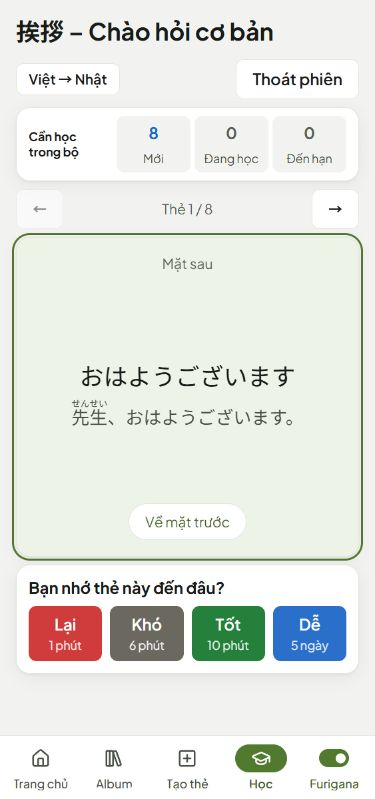
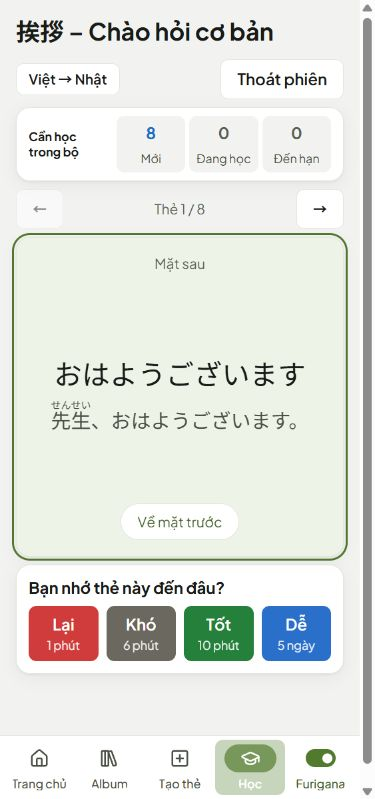
học: tăng nhẹ cỡ chữ mặt sau thẻ

diff --git a/pages/study/study.css b/pages/study/study.css
@@ -184,7 +184,7 @@
 }
 
 .study-card-meaning {
-  font-size: clamp(var(--text-xl), 4vw, var(--text-card));
+  font-size: clamp(var(--text-card), 4vw, 2rem);
 }
 
 .study-card-reading,
@@ -195,11 +195,11 @@
 }
 
 .study-card-reading {
-  font-size: var(--text-lg);
+  font-size: 1.25rem;
 }
 
 .study-card-example {
-  font-size: var(--text-base);
+  font-size: var(--text-lg);
   max-block-size: 6em;
   overflow-y: auto;
   overscroll-behavior: contain;
@@ -379,9 +379,9 @@
   }
 
   .study-card-text { font-size: clamp(3.5rem, 3.5vw, 6rem); }
-  .study-card-meaning { font-size: clamp(2rem, 2.5vw, 4rem); }
-  .study-card-reading { font-size: clamp(1.5rem, 1.25vw, 2rem); }
-  .study-card-example { font-size: clamp(1.25rem, 1vw, 1.75rem); }
+  .study-card-meaning { font-size: clamp(2.25rem, 2.75vw, 4.5rem); }
+  .study-card-reading { font-size: clamp(1.625rem, 1.375vw, 2.25rem); }
+  .study-card-example { font-size: clamp(1.375rem, 1.125vw, 2rem); }
 
   .study-card-label,
   .study-card-hint,
@@ -462,8 +462,8 @@
 
   .study-card .flashcard-face[aria-hidden='true'] { visibility: hidden; }
   .study-card-text { font-size: clamp(1.75rem, 7vw, 2.25rem); }
-  .study-card-meaning { font-size: clamp(1.5rem, 6vw, 2rem); }
-  .study-card-example { font-size: var(--text-lg); max-block-size: 5rem; }
+  .study-card-meaning { font-size: clamp(1.75rem, 7vw, 2.25rem); }
+  .study-card-example { font-size: 1.25rem; max-block-size: 5rem; }
 
   .study-rate-panel { padding: var(--space-3); gap: var(--space-2); }
   .study-rate-heading p { display: none; }
